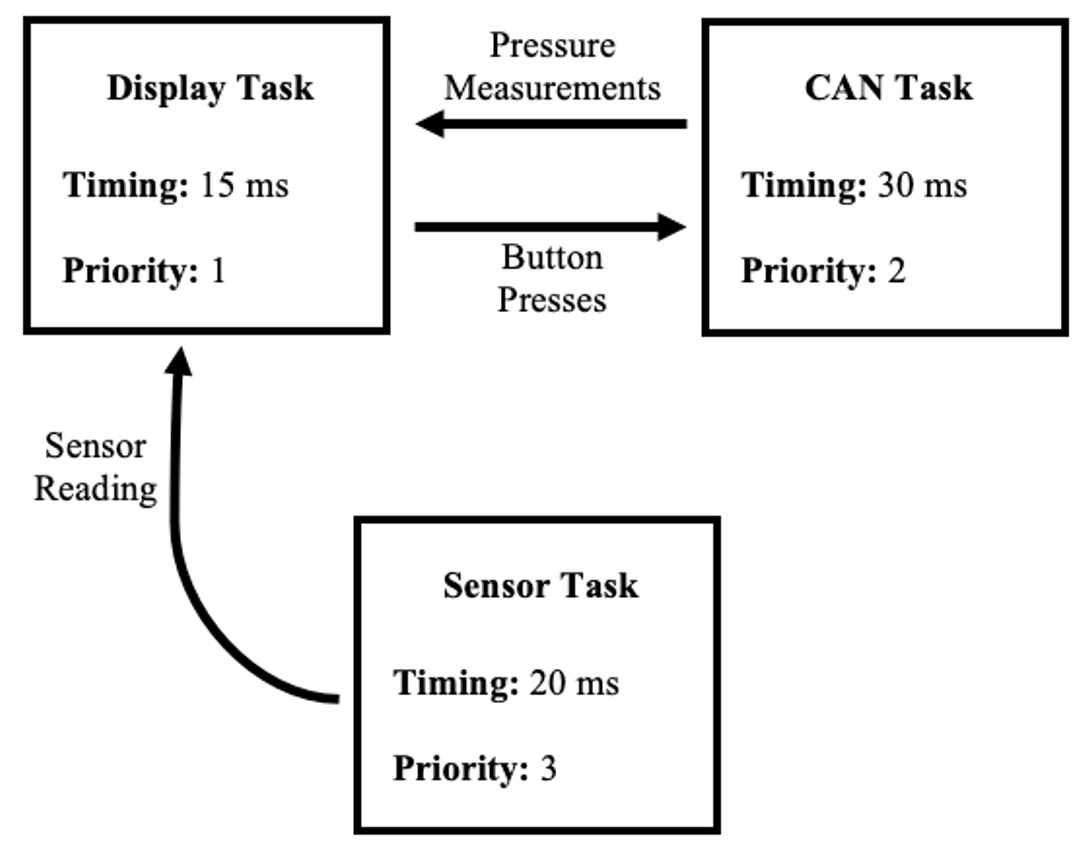
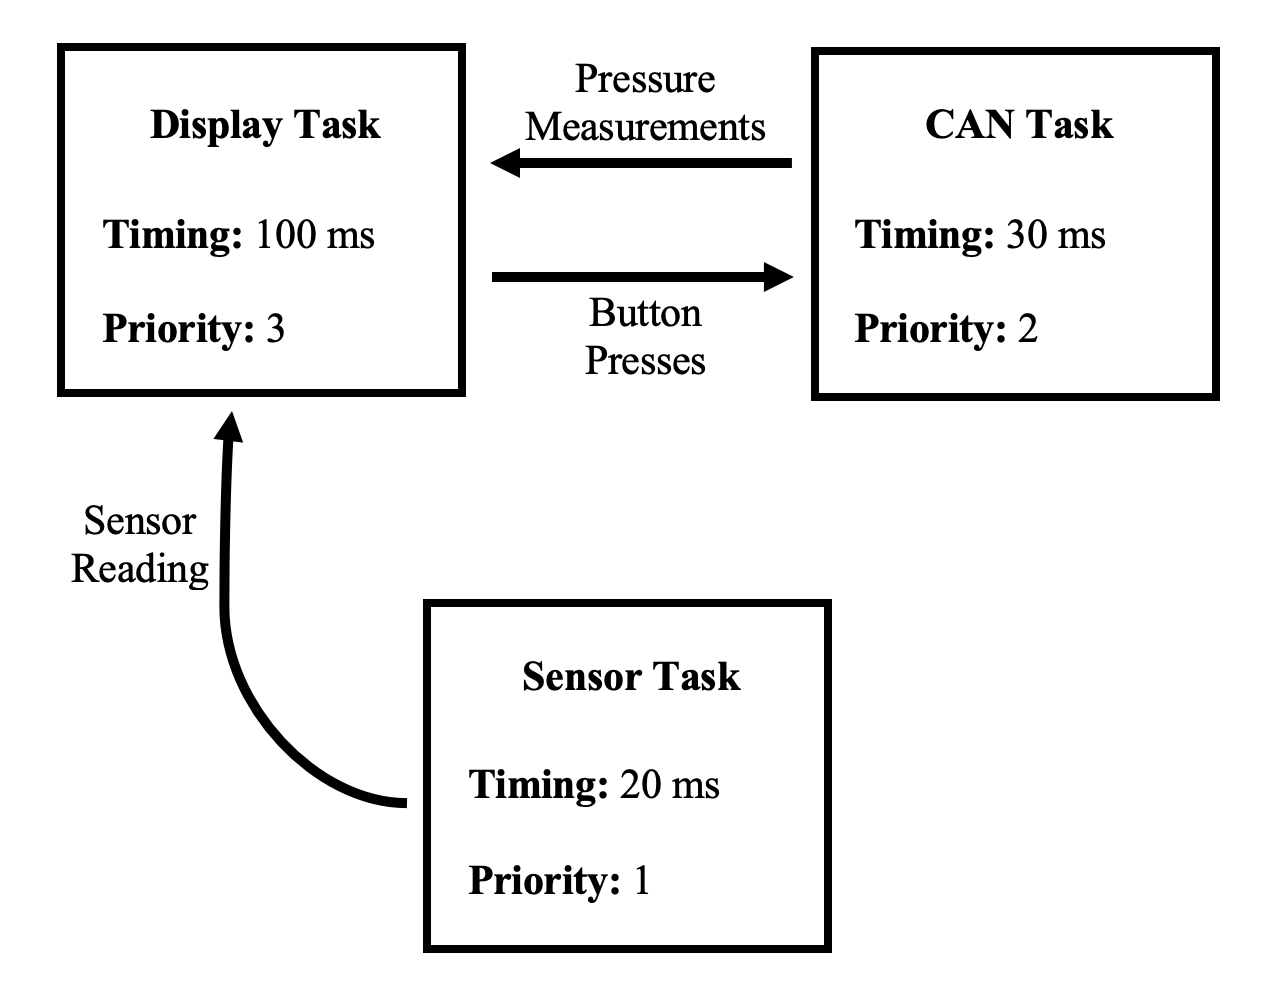
Updated documentation.

Changed region(s): [[0.0, 0.0, 1.0, 1.0], [0.4062, 0.6698, 0.5938, 0.7002]]

diff --git a/docs/Interface_8cpp.html b/docs/Interface_8cpp.html
@@ -138,12 +138,12 @@ Macros</h2></td></tr>
 </table><table class="memberdecls">
 <tr class="heading"><td colspan="2"><h2 class="groupheader"><a name="func-members"></a>
 Functions</h2></td></tr>
-<tr class="memitem:a8d140b5e57fe37be73abb1c25e24700e"><td class="memItemLeft" align="right" valign="top">Queue&lt; int32_t &gt;&#160;</td><td class="memItemRight" valign="bottom"><a class="el" href="Interface_8cpp.html#a8d140b5e57fe37be73abb1c25e24700e">accumulatorPressure</a> (10,&quot;buffer&quot;)</td></tr>
-<tr class="memdesc:a8d140b5e57fe37be73abb1c25e24700e"><td class="mdescLeft">&#160;</td><td class="mdescRight">Queue for storing accumulator pressure values.  <a href="Interface_8cpp.html#a8d140b5e57fe37be73abb1c25e24700e">More...</a><br /></td></tr>
-<tr class="separator:a8d140b5e57fe37be73abb1c25e24700e"><td class="memSeparator" colspan="2">&#160;</td></tr>
-<tr class="memitem:ae717e189143a2357f98f49b468e10da4"><td class="memItemLeft" align="right" valign="top">Queue&lt; int32_t &gt;&#160;</td><td class="memItemRight" valign="bottom"><a class="el" href="Interface_8cpp.html#ae717e189143a2357f98f49b468e10da4">bikeSpeed</a> (5,&quot;buffer&quot;)</td></tr>
-<tr class="memdesc:ae717e189143a2357f98f49b468e10da4"><td class="mdescLeft">&#160;</td><td class="mdescRight">Queue for storing bike speed values.  <a href="Interface_8cpp.html#ae717e189143a2357f98f49b468e10da4">More...</a><br /></td></tr>
-<tr class="separator:ae717e189143a2357f98f49b468e10da4"><td class="memSeparator" colspan="2">&#160;</td></tr>
+<tr class="memitem:af6d88e4ec98f0c1bb01ff4a9d9e931b7"><td class="memItemLeft" align="right" valign="top">Queue&lt; int32_t &gt;&#160;</td><td class="memItemRight" valign="bottom"><a class="el" href="Interface_8cpp.html#af6d88e4ec98f0c1bb01ff4a9d9e931b7">accumulatorPressure</a> (20,&quot;pressure buffer&quot;)</td></tr>
+<tr class="memdesc:af6d88e4ec98f0c1bb01ff4a9d9e931b7"><td class="mdescLeft">&#160;</td><td class="mdescRight">Queue for storing accumulator pressure values.  <a href="Interface_8cpp.html#af6d88e4ec98f0c1bb01ff4a9d9e931b7">More...</a><br /></td></tr>
+<tr class="separator:af6d88e4ec98f0c1bb01ff4a9d9e931b7"><td class="memSeparator" colspan="2">&#160;</td></tr>
+<tr class="memitem:aecef6508714e56cdbebb2a8f4613e2b3"><td class="memItemLeft" align="right" valign="top">Queue&lt; int32_t &gt;&#160;</td><td class="memItemRight" valign="bottom"><a class="el" href="Interface_8cpp.html#aecef6508714e56cdbebb2a8f4613e2b3">bikeSpeed</a> (20,&quot;speed buffer&quot;)</td></tr>
+<tr class="memdesc:aecef6508714e56cdbebb2a8f4613e2b3"><td class="mdescLeft">&#160;</td><td class="mdescRight">Queue for storing bike speed values.  <a href="Interface_8cpp.html#aecef6508714e56cdbebb2a8f4613e2b3">More...</a><br /></td></tr>
+<tr class="separator:aecef6508714e56cdbebb2a8f4613e2b3"><td class="memSeparator" colspan="2">&#160;</td></tr>
 <tr class="memitem:af090274e5f1ebfc12cc507560a557ce7"><td class="memItemLeft" align="right" valign="top">bool&#160;</td><td class="memItemRight" valign="bottom"><a class="el" href="Interface_8cpp.html#af090274e5f1ebfc12cc507560a557ce7">debounce</a> (uint8_t buttonPin, uint8_t length, bool sign=true)</td></tr>
 <tr class="memdesc:af090274e5f1ebfc12cc507560a557ce7"><td class="mdescLeft">&#160;</td><td class="mdescRight">Function to debounce a signal from a GPIO pin.  <a href="Interface_8cpp.html#af090274e5f1ebfc12cc507560a557ce7">More...</a><br /></td></tr>
 <tr class="separator:af090274e5f1ebfc12cc507560a557ce7"><td class="memSeparator" colspan="2">&#160;</td></tr>
@@ -198,11 +198,14 @@ uint8_t&#160;</td><td class="memItemRight" valign="bottom"><a class="el" href="I
 </table>
 <a name="details" id="details"></a><h2 class="groupheader">Detailed Description</h2>
 <div class="textblock"><p>This file contains the function files for the RTOS tasks used with the interface controller. It manages three tasks: display, CAN, and hall effect. In the display task, the controller interfaces with a Nextion display using the EasyNextionLibrary header file. The controller communicates with the Nextion using UART. In the CAN task, the controller interfaces with an MCP2515 CAN controller using SPI, which outputs a CAN signal to the CAN bus. In the hall effect task, the controller reads a GPIO pin using a polling method.</p>
+<p>As discussed in the section, <a class="el" href="index.html#s_software">Software Design</a>, the task with the highest priority is <a class="el" href="Interface_8cpp.html#a6d50525ab6bbea9007958d7feaf83360" title="Task which reads a hall effect sensor.">task_HALL1()</a>, which must quickly poll the hall effect sensor to measure the speed of the vehicle. A high-level task diagram is shown in Figure 1.</p>
+<p><img src="https://raw.githubusercontent.com/jkochavi/Fluid-Power-Controller/master/wiki_Support_Files/fig19.png" alt="" style="width:400px;" class="inline"/> <br  />
+<b>Figure 1.</b> Inter-controller system boundary diagram.</p>
 <dl class="section author"><dt>Author</dt><dd>Jordan Kochavi</dd></dl>
 <dl class="section date"><dt>Date</dt><dd>8 Dec 2020 Original file </dd></dl>
 </div><h2 class="groupheader">Function Documentation</h2>
-<a id="a8d140b5e57fe37be73abb1c25e24700e"></a>
-<h2 class="memtitle"><span class="permalink"><a href="#a8d140b5e57fe37be73abb1c25e24700e">&#9670;&nbsp;</a></span>accumulatorPressure()</h2>
+<a id="af6d88e4ec98f0c1bb01ff4a9d9e931b7"></a>
+<h2 class="memtitle"><span class="permalink"><a href="#af6d88e4ec98f0c1bb01ff4a9d9e931b7">&#9670;&nbsp;</a></span>accumulatorPressure()</h2>
 
 <div class="memitem">
 <div class="memproto">
@@ -210,13 +213,13 @@ uint8_t&#160;</td><td class="memItemRight" valign="bottom"><a class="el" href="I
         <tr>
           <td class="memname">Queue&lt;int32_t&gt; accumulatorPressure </td>
           <td>(</td>
-          <td class="paramtype">10&#160;</td>
+          <td class="paramtype">20&#160;</td>
           <td class="paramname">, </td>
         </tr>
         <tr>
           <td class="paramkey"></td>
           <td></td>
-          <td class="paramtype">&quot;buffer&quot;&#160;</td>
+          <td class="paramtype">&quot;pressure buffer&quot;&#160;</td>
           <td class="paramname">&#160;</td>
         </tr>
         <tr>
@@ -232,8 +235,8 @@ uint8_t&#160;</td><td class="memItemRight" valign="bottom"><a class="el" href="I
 
 </div>
 </div>
-<a id="ae717e189143a2357f98f49b468e10da4"></a>
-<h2 class="memtitle"><span class="permalink"><a href="#ae717e189143a2357f98f49b468e10da4">&#9670;&nbsp;</a></span>bikeSpeed()</h2>
+<a id="aecef6508714e56cdbebb2a8f4613e2b3"></a>
+<h2 class="memtitle"><span class="permalink"><a href="#aecef6508714e56cdbebb2a8f4613e2b3">&#9670;&nbsp;</a></span>bikeSpeed()</h2>
 
 <div class="memitem">
 <div class="memproto">
@@ -241,13 +244,13 @@ uint8_t&#160;</td><td class="memItemRight" valign="bottom"><a class="el" href="I
         <tr>
           <td class="memname">Queue&lt;int32_t&gt; bikeSpeed </td>
           <td>(</td>
-          <td class="paramtype">5&#160;</td>
+          <td class="paramtype">20&#160;</td>
           <td class="paramname">, </td>
         </tr>
         <tr>
           <td class="paramkey"></td>
           <td></td>
-          <td class="paramtype">&quot;buffer&quot;&#160;</td>
+          <td class="paramtype">&quot;speed buffer&quot;&#160;</td>
           <td class="paramname">&#160;</td>
         </tr>
         <tr>

diff --git a/docs/Interface_8h_source.html b/docs/Interface_8h_source.html
@@ -122,9 +122,9 @@ $(document).ready(function(){initNavTree('Interface_8h_source.html',''); initRes
 <div class="line"><a name="l00049"></a><span class="lineno">   49</span>&#160;<span class="preprocessor">#endif // UI_H</span></div>
 </div><!-- fragment --></div><!-- contents -->
 </div><!-- doc-content -->
-<div class="ttc" id="aInterface_8h_html_a9e8d440b9f80517890c8ebe462ed9bfb"><div class="ttname"><a href="Interface_8h.html#a9e8d440b9f80517890c8ebe462ed9bfb">task_display</a></div><div class="ttdeci">void task_display(void *params)</div><div class="ttdoc">Task which interacts with the Nextion display.</div><div class="ttdef"><b>Definition:</b> Interface.cpp:283</div></div>
-<div class="ttc" id="aInterface_8h_html_a2799bc5582d595c9af523f6c05e59d03"><div class="ttname"><a href="Interface_8h.html#a2799bc5582d595c9af523f6c05e59d03">task_CAN</a></div><div class="ttdeci">void task_CAN(void *params)</div><div class="ttdoc">Task which interacts with the CAN bus.</div><div class="ttdef"><b>Definition:</b> Interface.cpp:362</div></div>
-<div class="ttc" id="aInterface_8h_html_a4fb62abab955d8de99b1f66afc818b93"><div class="ttname"><a href="Interface_8h.html#a4fb62abab955d8de99b1f66afc818b93">task_HALL1</a></div><div class="ttdeci">void task_HALL1(void *params)</div><div class="ttdoc">Task which reads a hall effect sensor.</div><div class="ttdef"><b>Definition:</b> Interface.cpp:412</div></div>
+<div class="ttc" id="aInterface_8h_html_a9e8d440b9f80517890c8ebe462ed9bfb"><div class="ttname"><a href="Interface_8h.html#a9e8d440b9f80517890c8ebe462ed9bfb">task_display</a></div><div class="ttdeci">void task_display(void *params)</div><div class="ttdoc">Task which interacts with the Nextion display.</div><div class="ttdef"><b>Definition:</b> Interface.cpp:292</div></div>
+<div class="ttc" id="aInterface_8h_html_a2799bc5582d595c9af523f6c05e59d03"><div class="ttname"><a href="Interface_8h.html#a2799bc5582d595c9af523f6c05e59d03">task_CAN</a></div><div class="ttdeci">void task_CAN(void *params)</div><div class="ttdoc">Task which interacts with the CAN bus.</div><div class="ttdef"><b>Definition:</b> Interface.cpp:372</div></div>
+<div class="ttc" id="aInterface_8h_html_a4fb62abab955d8de99b1f66afc818b93"><div class="ttname"><a href="Interface_8h.html#a4fb62abab955d8de99b1f66afc818b93">task_HALL1</a></div><div class="ttdeci">void task_HALL1(void *params)</div><div class="ttdoc">Task which reads a hall effect sensor.</div><div class="ttdef"><b>Definition:</b> Interface.cpp:422</div></div>
 <!-- start footer part -->
 <div id="nav-path" class="navpath"><!-- id is needed for treeview function! -->
   <ul>

diff --git a/docs/navtreeindex0.js b/docs/navtreeindex0.js
@@ -15,15 +15,15 @@ var NAVTREEINDEX0 =
 "Interface_8cpp.html#a76d676688a39ec76b704f66d37964e09":[9,0,0,13],
 "Interface_8cpp.html#a81d1368f9c3604c940ee0d2c2d6e5d5f":[9,0,0,0],
 "Interface_8cpp.html#a8a64b24d507d8ddff6aa9fb1e2a4879d":[9,0,0,3],
-"Interface_8cpp.html#a8d140b5e57fe37be73abb1c25e24700e":[9,0,0,6],
 "Interface_8cpp.html#aa8686a378ae63586440852b7a15bf41e":[9,0,0,9],
 "Interface_8cpp.html#ab33e4972e861b45fe133b914aaec9677":[9,0,0,16],
 "Interface_8cpp.html#ab85e421ccb26cae296438098ad2a743b":[9,0,0,22],
 "Interface_8cpp.html#abe94cf4e3630fe1c4a543d69b0cd01a6":[9,0,0,4],
 "Interface_8cpp.html#ac46403aac21bdccea79e1beecd864128":[9,0,0,11],
-"Interface_8cpp.html#ae717e189143a2357f98f49b468e10da4":[9,0,0,7],
 "Interface_8cpp.html#ae7b4ba8037c51907ef76cdd1c2854fae":[9,0,0,8],
+"Interface_8cpp.html#aecef6508714e56cdbebb2a8f4613e2b3":[9,0,0,7],
 "Interface_8cpp.html#af090274e5f1ebfc12cc507560a557ce7":[9,0,0,10],
+"Interface_8cpp.html#af6d88e4ec98f0c1bb01ff4a9d9e931b7":[9,0,0,6],
 "Interface_8h.html":[9,0,1],
 "Interface_8h.html#a00b776b8d8a7f1e9d409d44bb9a74fe6":[9,0,1,5],
 "Interface_8h.html#a11b3b506179458dd29a9fbded3921e05":[9,0,1,6],

diff --git a/docs/Interface_8cpp.js b/docs/Interface_8cpp.js
@@ -6,8 +6,8 @@ var Interface_8cpp =
     [ "directButton", "Interface_8cpp.html#a8a64b24d507d8ddff6aa9fb1e2a4879d", null ],
     [ "HALL1", "Interface_8cpp.html#abe94cf4e3630fe1c4a543d69b0cd01a6", null ],
     [ "regenButton", "Interface_8cpp.html#a19f61c5c02d0fdae4e4085521c810c37", null ],
-    [ "accumulatorPressure", "Interface_8cpp.html#a8d140b5e57fe37be73abb1c25e24700e", null ],
-    [ "bikeSpeed", "Interface_8cpp.html#ae717e189143a2357f98f49b468e10da4", null ],
+    [ "accumulatorPressure", "Interface_8cpp.html#af6d88e4ec98f0c1bb01ff4a9d9e931b7", null ],
+    [ "bikeSpeed", "Interface_8cpp.html#aecef6508714e56cdbebb2a8f4613e2b3", null ],
     [ "CAN_readPressure", "Interface_8cpp.html#ae7b4ba8037c51907ef76cdd1c2854fae", null ],
     [ "CAN_sendPress", "Interface_8cpp.html#aa8686a378ae63586440852b7a15bf41e", null ],
     [ "debounce", "Interface_8cpp.html#af090274e5f1ebfc12cc507560a557ce7", null ],

diff --git a/docs/globals.html b/docs/globals.html
@@ -97,14 +97,14 @@ $(document).ready(function(){initNavTree('globals.html',''); initResizable(); })
 
 <h3><a id="index_a"></a>- a -</h3><ul>
 <li>accumulatorPressure()
-: <a class="el" href="Interface_8cpp.html#a8d140b5e57fe37be73abb1c25e24700e">Interface.cpp</a>
+: <a class="el" href="Interface_8cpp.html#af6d88e4ec98f0c1bb01ff4a9d9e931b7">Interface.cpp</a>
 </li>
 </ul>
 
 
 <h3><a id="index_b"></a>- b -</h3><ul>
 <li>bikeSpeed()
-: <a class="el" href="Interface_8cpp.html#ae717e189143a2357f98f49b468e10da4">Interface.cpp</a>
+: <a class="el" href="Interface_8cpp.html#aecef6508714e56cdbebb2a8f4613e2b3">Interface.cpp</a>
 </li>
 <li>BOOST
 : <a class="el" href="Interface_8h.html#ab97dfc84158d22d16e762f46c754176c">Interface.h</a>

diff --git a/docs/globals_func.html b/docs/globals_func.html
@@ -95,10 +95,10 @@ $(document).ready(function(){initNavTree('globals_func.html',''); initResizable(
 <div class="contents">
 &#160;<ul>
 <li>accumulatorPressure()
-: <a class="el" href="Interface_8cpp.html#a8d140b5e57fe37be73abb1c25e24700e">Interface.cpp</a>
+: <a class="el" href="Interface_8cpp.html#af6d88e4ec98f0c1bb01ff4a9d9e931b7">Interface.cpp</a>
 </li>
 <li>bikeSpeed()
-: <a class="el" href="Interface_8cpp.html#ae717e189143a2357f98f49b468e10da4">Interface.cpp</a>
+: <a class="el" href="Interface_8cpp.html#aecef6508714e56cdbebb2a8f4613e2b3">Interface.cpp</a>
 </li>
 <li>CAN_readPressure()
 : <a class="el" href="Interface_8cpp.html#ae7b4ba8037c51907ef76cdd1c2854fae">Interface.cpp</a>

diff --git a/docs/search/all_1.js b/docs/search/all_1.js
@@ -1,6 +1,6 @@
 var searchData=
 [
-  ['bikespeed_1',['bikeSpeed',['../Interface_8cpp.html#ae717e189143a2357f98f49b468e10da4',1,'Interface.cpp']]],
+  ['bikespeed_1',['bikeSpeed',['../Interface_8cpp.html#aecef6508714e56cdbebb2a8f4613e2b3',1,'Interface.cpp']]],
   ['boost_2',['BOOST',['../Interface_8h.html#ab97dfc84158d22d16e762f46c754176c',1,'Interface.h']]],
   ['boostbutton_3',['boostButton',['../Interface_8cpp.html#a81d1368f9c3604c940ee0d2c2d6e5d5f',1,'Interface.cpp']]],
   ['buttonstate_4',['buttonState',['../Interface_8cpp.html#a39a067cd169642a9dc6f35d61e74a949',1,'Interface.cpp']]]

diff --git a/docs/search/functions_0.js b/docs/search/functions_0.js
@@ -1,4 +1,4 @@
 var searchData=
 [
-  ['accumulatorpressure_41',['accumulatorPressure',['../Interface_8cpp.html#a8d140b5e57fe37be73abb1c25e24700e',1,'Interface.cpp']]]
+  ['accumulatorpressure_41',['accumulatorPressure',['../Interface_8cpp.html#af6d88e4ec98f0c1bb01ff4a9d9e931b7',1,'Interface.cpp']]]
 ];

diff --git a/docs/search/all_0.js b/docs/search/all_0.js
@@ -1,4 +1,4 @@
 var searchData=
 [
-  ['accumulatorpressure_0',['accumulatorPressure',['../Interface_8cpp.html#a8d140b5e57fe37be73abb1c25e24700e',1,'Interface.cpp']]]
+  ['accumulatorpressure_0',['accumulatorPressure',['../Interface_8cpp.html#af6d88e4ec98f0c1bb01ff4a9d9e931b7',1,'Interface.cpp']]]
 ];

diff --git a/docs/search/functions_1.js b/docs/search/functions_1.js
@@ -1,4 +1,4 @@
 var searchData=
 [
-  ['bikespeed_42',['bikeSpeed',['../Interface_8cpp.html#ae717e189143a2357f98f49b468e10da4',1,'Interface.cpp']]]
+  ['bikespeed_42',['bikeSpeed',['../Interface_8cpp.html#aecef6508714e56cdbebb2a8f4613e2b3',1,'Interface.cpp']]]
 ];

diff --git a/src/Interface.cpp b/src/Interface.cpp
@@ -1,14 +1,23 @@
 /** @file Interface.cpp
- *    This file contains the function files for the RTOS
- *    tasks used with the interface controller. It manages
- *    three tasks: display, CAN, and hall effect. In the 
- *    display task, the controller interfaces with a 
- *    Nextion display using the EasyNextionLibrary header
- *    file. The controller communicates with the Nextion
- *    using UART. In the CAN task, the controller interfaces
- *    with an MCP2515 CAN controller using SPI, which outputs
- *    a CAN signal to the CAN bus. In the hall effect task,
- *    the controller reads a GPIO pin using a polling method.
+ * This file contains the function files for the RTOS
+ * tasks used with the interface controller. It manages
+ * three tasks: display, CAN, and hall effect. In the 
+ * display task, the controller interfaces with a 
+ * Nextion display using the EasyNextionLibrary header
+ * file. The controller communicates with the Nextion
+ * using UART. In the CAN task, the controller interfaces
+ * with an MCP2515 CAN controller using SPI, which outputs
+ * a CAN signal to the CAN bus. In the hall effect task,
+ * the controller reads a GPIO pin using a polling method.
+ * 
+ * As discussed in the section, \ref s_software, the task
+ * with the highest priority is task_HALL1(), which must
+ * quickly poll the hall effect sensor to measure the 
+ * speed of the vehicle. A high-level task diagram is
+ * shown in Figure 1.
+ * 
+ * <img src="https://raw.githubusercontent.com/jkochavi/Fluid-Power-Controller/master/wiki_Support_Files/fig19.png" style="width:400px;">
+ * <br /><b>Figure 1.</b> Inter-controller system boundary diagram.
  *
  *  @author  Jordan Kochavi
  * 
